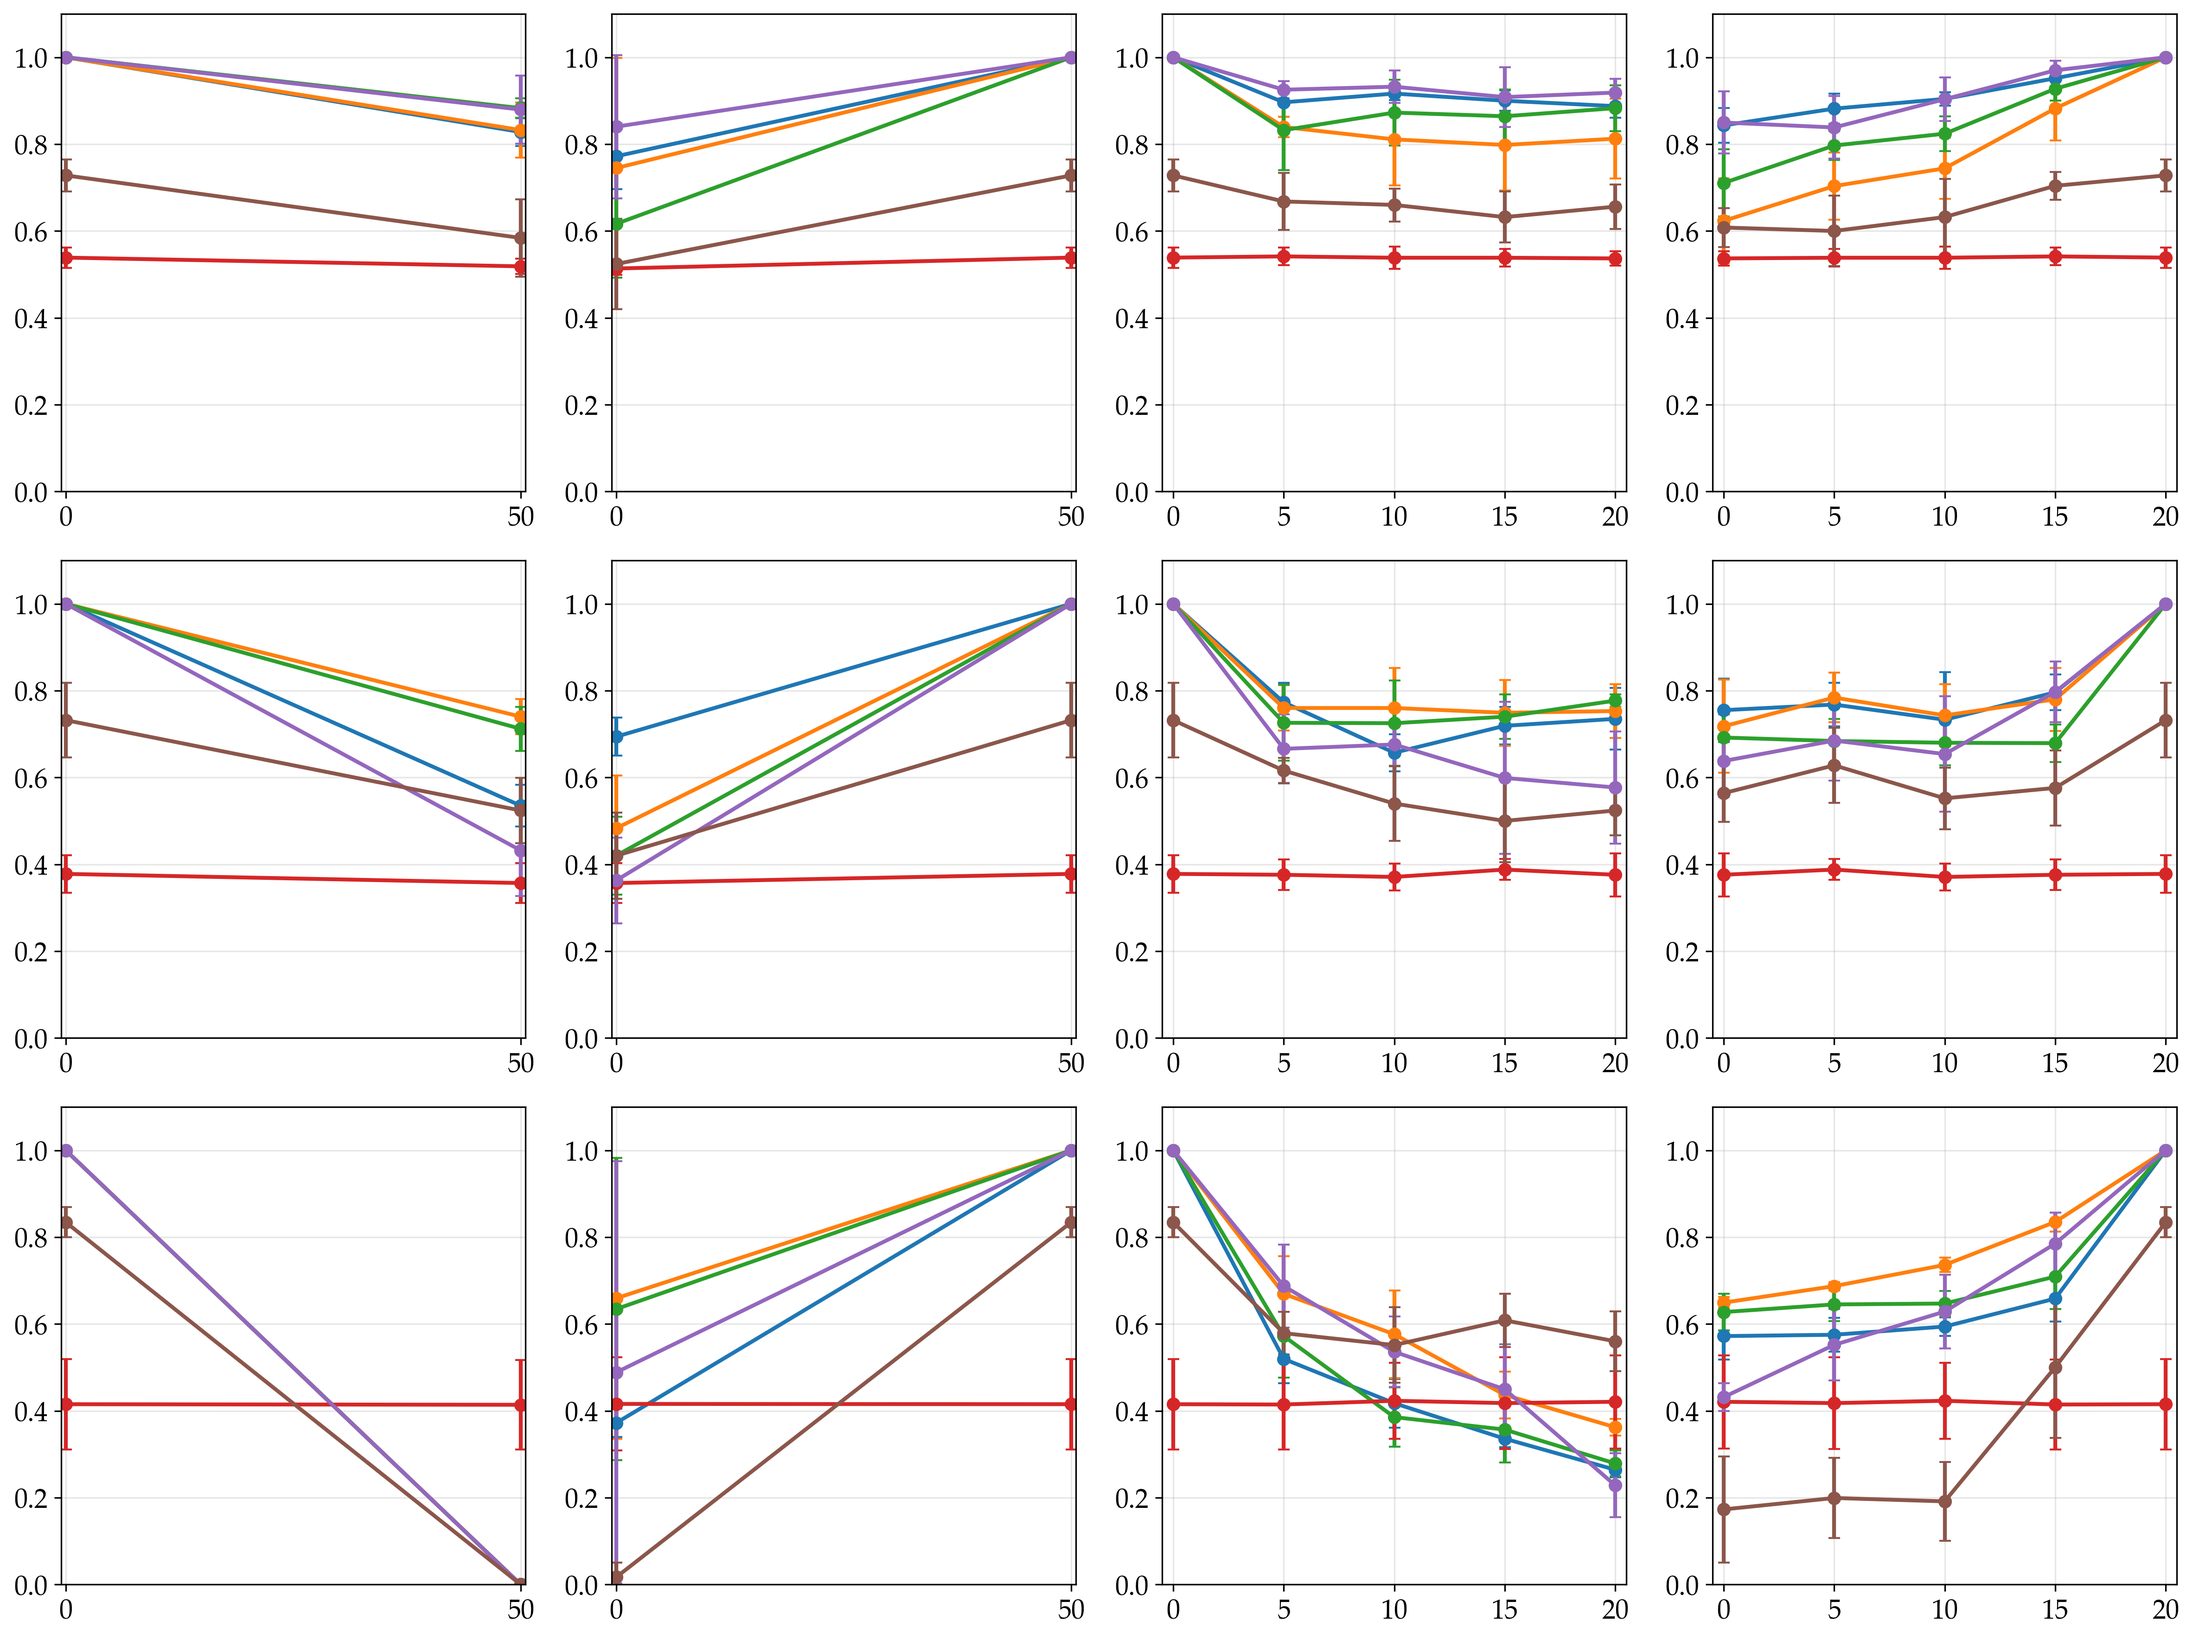
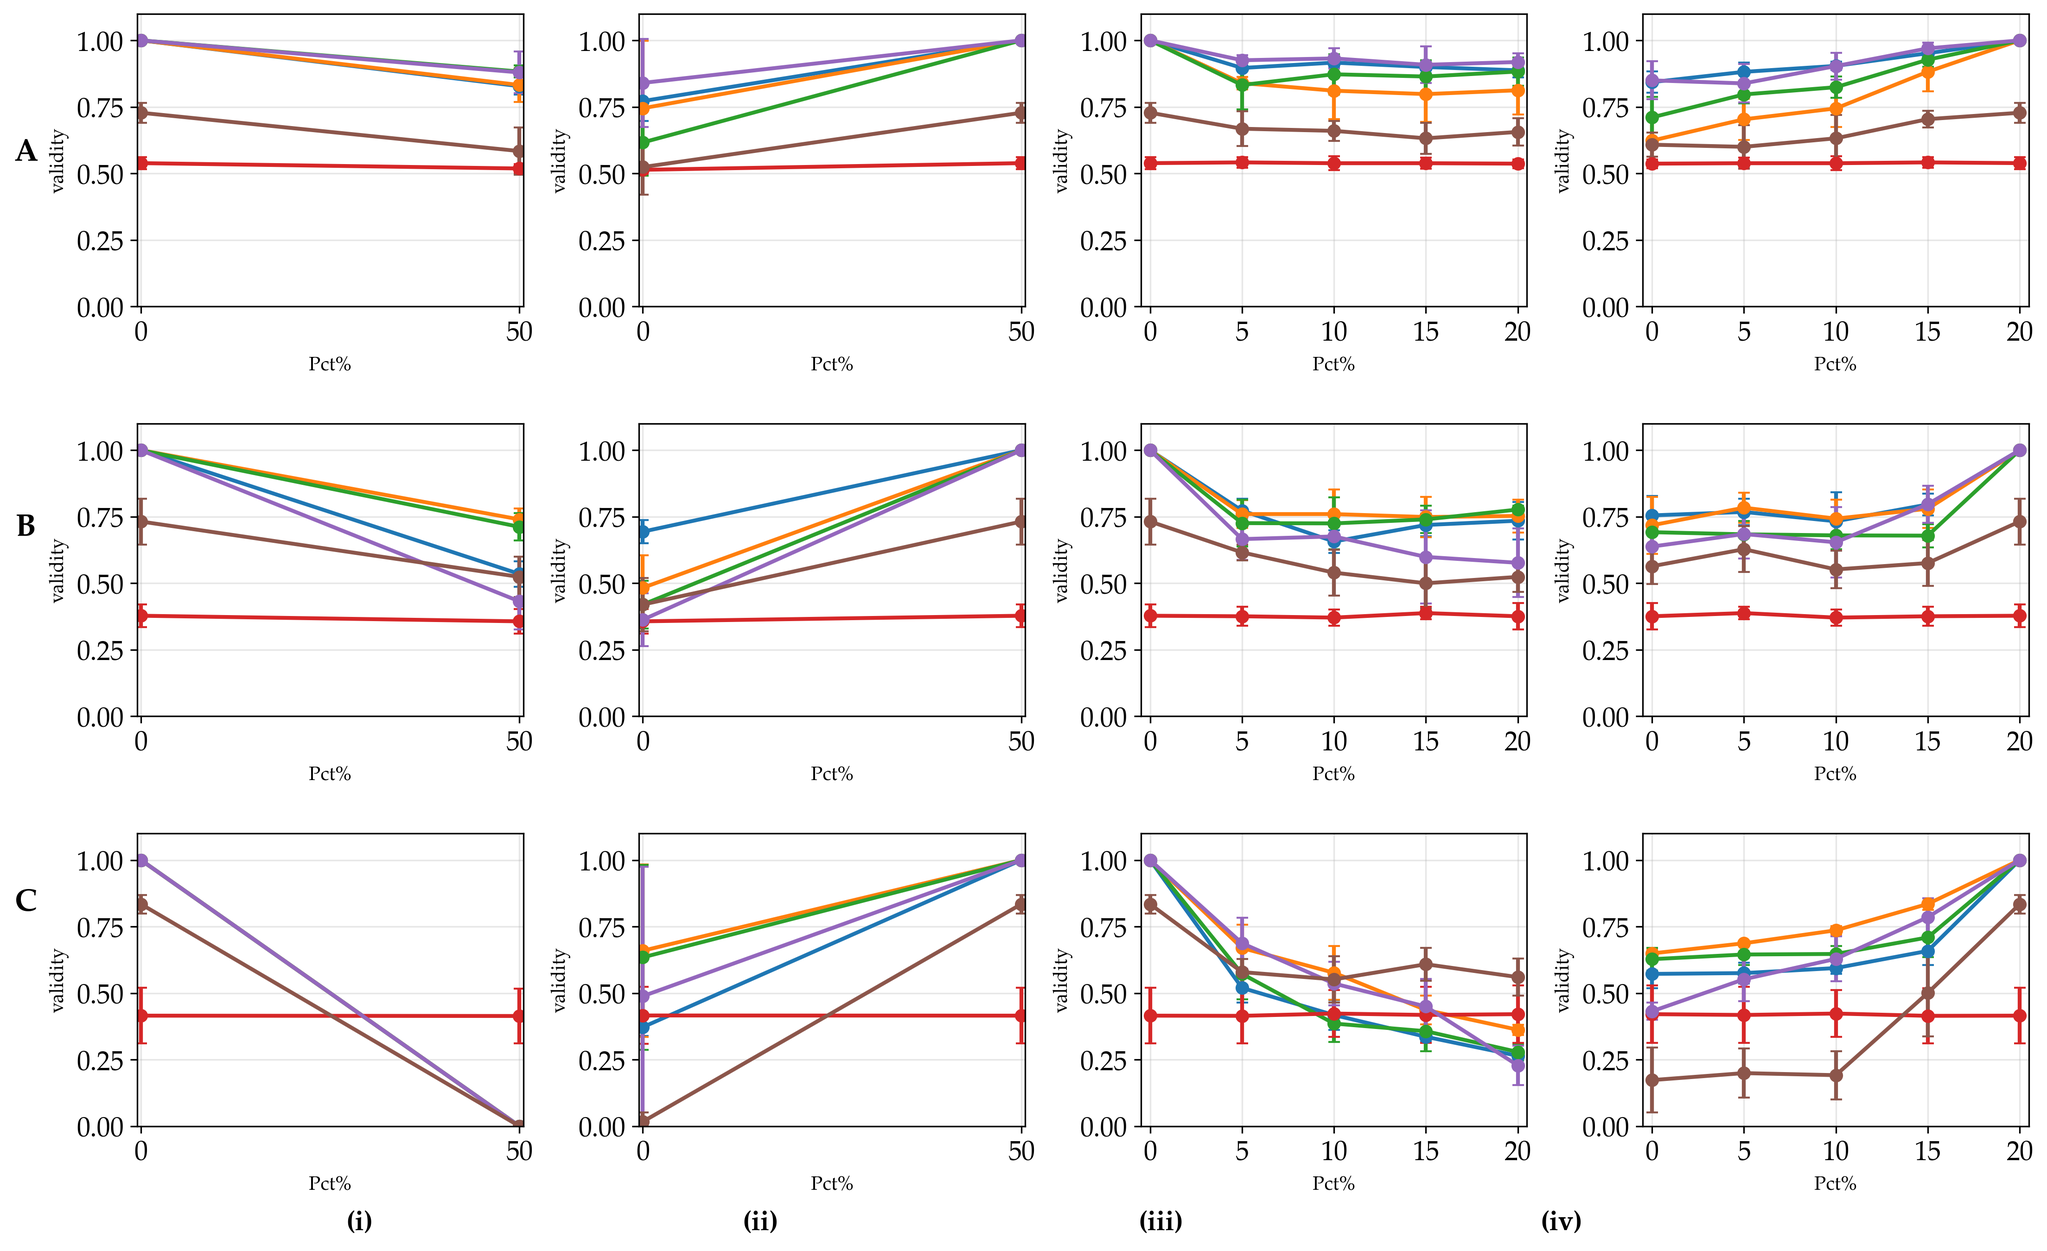
updated plots

diff --git a/create_model_validity_plots.py b/create_model_validity_plots.py
@@ -283,7 +283,7 @@ def create_model_perturbation_grid_plots(datasets, save_dir="visualizations"):
             continue
         
         # Create 2x4 grid (2 types x 4 methods)
-        fig, axes = plt.subplots(2, 4, figsize=(16, 8))
+        fig, axes = plt.subplots(2, 4, figsize=(16, 6))  # Reduced height from 6.5 to 6
         
         for method_idx, method in enumerate(cf_methods):
             if method not in reader.model_data:
@@ -320,8 +320,8 @@ def create_model_perturbation_grid_plots(datasets, save_dir="visualizations"):
                                 
                                 if pd.notna(mean_val):
                                     x_values.append(n_est)
-                                    y_values.append(mean_val * 100)
-                                    y_errors.append(std_val * 100 if pd.notna(std_val) else 0)
+                                    y_values.append(mean_val)  # Keep as 0-1 range
+                                    y_errors.append(std_val if pd.notna(std_val) else 0)
                     else:
                         filtered_configs = [c for c in data['configs'] if c['n_estimators'] == fixed_value]
                         x_values = []
@@ -339,8 +339,8 @@ def create_model_perturbation_grid_plots(datasets, save_dir="visualizations"):
                                 
                                 if pd.notna(mean_val):
                                     x_values.append(max_d)
-                                    y_values.append(mean_val * 100)
-                                    y_errors.append(std_val * 100 if pd.notna(std_val) else 0)
+                                    y_values.append(mean_val)  # Keep as 0-1 range
+                                    y_errors.append(std_val if pd.notna(std_val) else 0)
                     
                     # Plot the line
                     if x_values:
@@ -350,7 +350,7 @@ def create_model_perturbation_grid_plots(datasets, save_dir="visualizations"):
                                    capsize=3, capthick=1.5, elinewidth=1)
                 
                 # Customize subplot
-                ax.set_ylim(0, 105)
+                ax.set_ylim(0, 1.05)  # Changed from 0-105 to 0-1.05
                 ax.grid(True, alpha=0.3, linestyle='--')
                 
                 # Set x-axis based on available data
@@ -382,7 +382,36 @@ def create_model_perturbation_grid_plots(datasets, save_dir="visualizations"):
             ax.set_ylabel('')
             ax.set_title('')
         
-        plt.tight_layout()
+        # Add y-axis labels to all subplots
+        for row in range(2):
+            for col in range(4):
+                ax = axes[row, col]
+                ax.set_ylabel('validity', fontsize=10)
+        
+        # Add x-axis labels based on row
+        for row in range(2):
+            for col in range(4):
+                ax = axes[row, col]
+                if row == 0:  # First row - n_estimators
+                    ax.set_xlabel('n-est', fontsize=10)
+                else:  # Second row - max_depth
+                    ax.set_xlabel('max-dep.', fontsize=10)
+        
+        # Add some space to the left and between rows, adjust layout
+        plt.subplots_adjust(left=0.1, right=0.95, top=0.95, bottom=0.2, hspace=0.4, wspace=0.3)
+        
+        # Add master roman numerals at the bottom for each column
+        roman_numerals = ['(i)', '(ii)', '(iii)', '(iv)']
+        for col in range(4):
+            # Position at bottom of entire figure for each column
+            fig.text(0.2 + col * 0.18, 0.05, roman_numerals[col], fontsize=14, weight='bold', 
+                    ha='center', va='center')
+        
+        # Add row labels to the left of the y-axis labels using the added space
+        row_labels = ['A', 'B']
+        for row in range(2):
+            fig.text(0.05, 0.8 - row * 0.4, row_labels[row], fontsize=16, weight='bold', 
+                    ha='center', va='center')
         
         # Save the grid plot
         os.makedirs(save_dir, exist_ok=True)

diff --git a/visualize_data_line_plots.py b/visualize_data_line_plots.py
@@ -195,7 +195,7 @@ def create_data_perturbation_grid_plot(datasets, save_dir="visualizations"):
     perturbation_types = ['major_deletion', 'major_addition', 'minor_deletion', 'minor_addition']
     
     # Create figure with 3x4 subplots
-    fig, axes = plt.subplots(3, 4, figsize=(16, 12))
+    fig, axes = plt.subplots(3, 4, figsize=(16, 10))  # Reduced height from 10.5 to 10
     
     # Colors for methods
     colors = {
@@ -253,7 +253,33 @@ def create_data_perturbation_grid_plot(datasets, save_dir="visualizations"):
         ax.set_ylabel('')
         ax.set_title('')
     
-    plt.tight_layout()
+    # Add y-axis labels to all subplots
+    for row in range(3):
+        for col in range(4):
+            ax = axes[row, col]
+            ax.set_ylabel('validity', fontsize=10)
+    
+    # Add x-axis labels to all subplots
+    for row in range(3):
+        for col in range(4):
+            ax = axes[row, col]
+            ax.set_xlabel('Pct%', fontsize=10)
+    
+    # Add some space to the left and between rows, adjust layout
+    plt.subplots_adjust(left=0.1, right=0.95, top=0.95, bottom=0.15, hspace=0.4, wspace=0.3)
+    
+    # Add master roman numerals at the bottom for each column
+    roman_numerals = ['(i)', '(ii)', '(iii)', '(iv)']
+    for col in range(4):
+        # Position at bottom of entire figure for each column - closer to x-axis labels
+        fig.text(0.2 + col * 0.18, 0.08, roman_numerals[col], fontsize=14, weight='bold', 
+                ha='center', va='center')
+    
+    # Add row labels to the left of the y-axis labels using the added space
+    row_labels = ['A', 'B', 'C']
+    for row in range(3):
+        fig.text(0.05, 0.85 - row * 0.27, row_labels[row], fontsize=16, weight='bold', 
+                ha='center', va='center')
     
     # Save the grid plot
     os.makedirs(save_dir, exist_ok=True)
@@ -271,7 +297,7 @@ def create_heloc_perturbation_grid_plot(save_dir="visualizations"):
     dataset_name = 'heloc'
     
     # Create figure with 1x4 subplots
-    fig, axes = plt.subplots(1, 4, figsize=(16, 4))
+    fig, axes = plt.subplots(1, 4, figsize=(16, 2))  # Reduced height from 2.5 to 2
     
     # Colors for methods
     colors = {
@@ -328,7 +354,25 @@ def create_heloc_perturbation_grid_plot(save_dir="visualizations"):
         ax.set_ylabel('')
         ax.set_title('')
     
-    plt.tight_layout()
+    # Add y-axis labels to all subplots
+    for col in range(4):
+        ax = axes[col]
+        ax.set_ylabel('validity', fontsize=10)
+    
+    # Add x-axis labels to all subplots
+    for col in range(4):
+        ax = axes[col]
+        ax.set_xlabel('Pct%', fontsize=10)
+    
+    # Add some space to the left and adjust layout
+    plt.subplots_adjust(left=0.1, right=0.95, top=0.85, bottom=0.3, wspace=0.3)
+    
+    # Add master roman numerals at the bottom for each column
+    roman_numerals = ['(i)', '(ii)', '(iii)', '(iv)']
+    for col in range(4):
+        # Position at bottom of entire figure for each column
+        fig.text(0.2 + col * 0.18, 0.1, roman_numerals[col], fontsize=14, weight='bold', 
+                ha='center', va='center')
     
     # Save the grid plot
     os.makedirs(save_dir, exist_ok=True)
